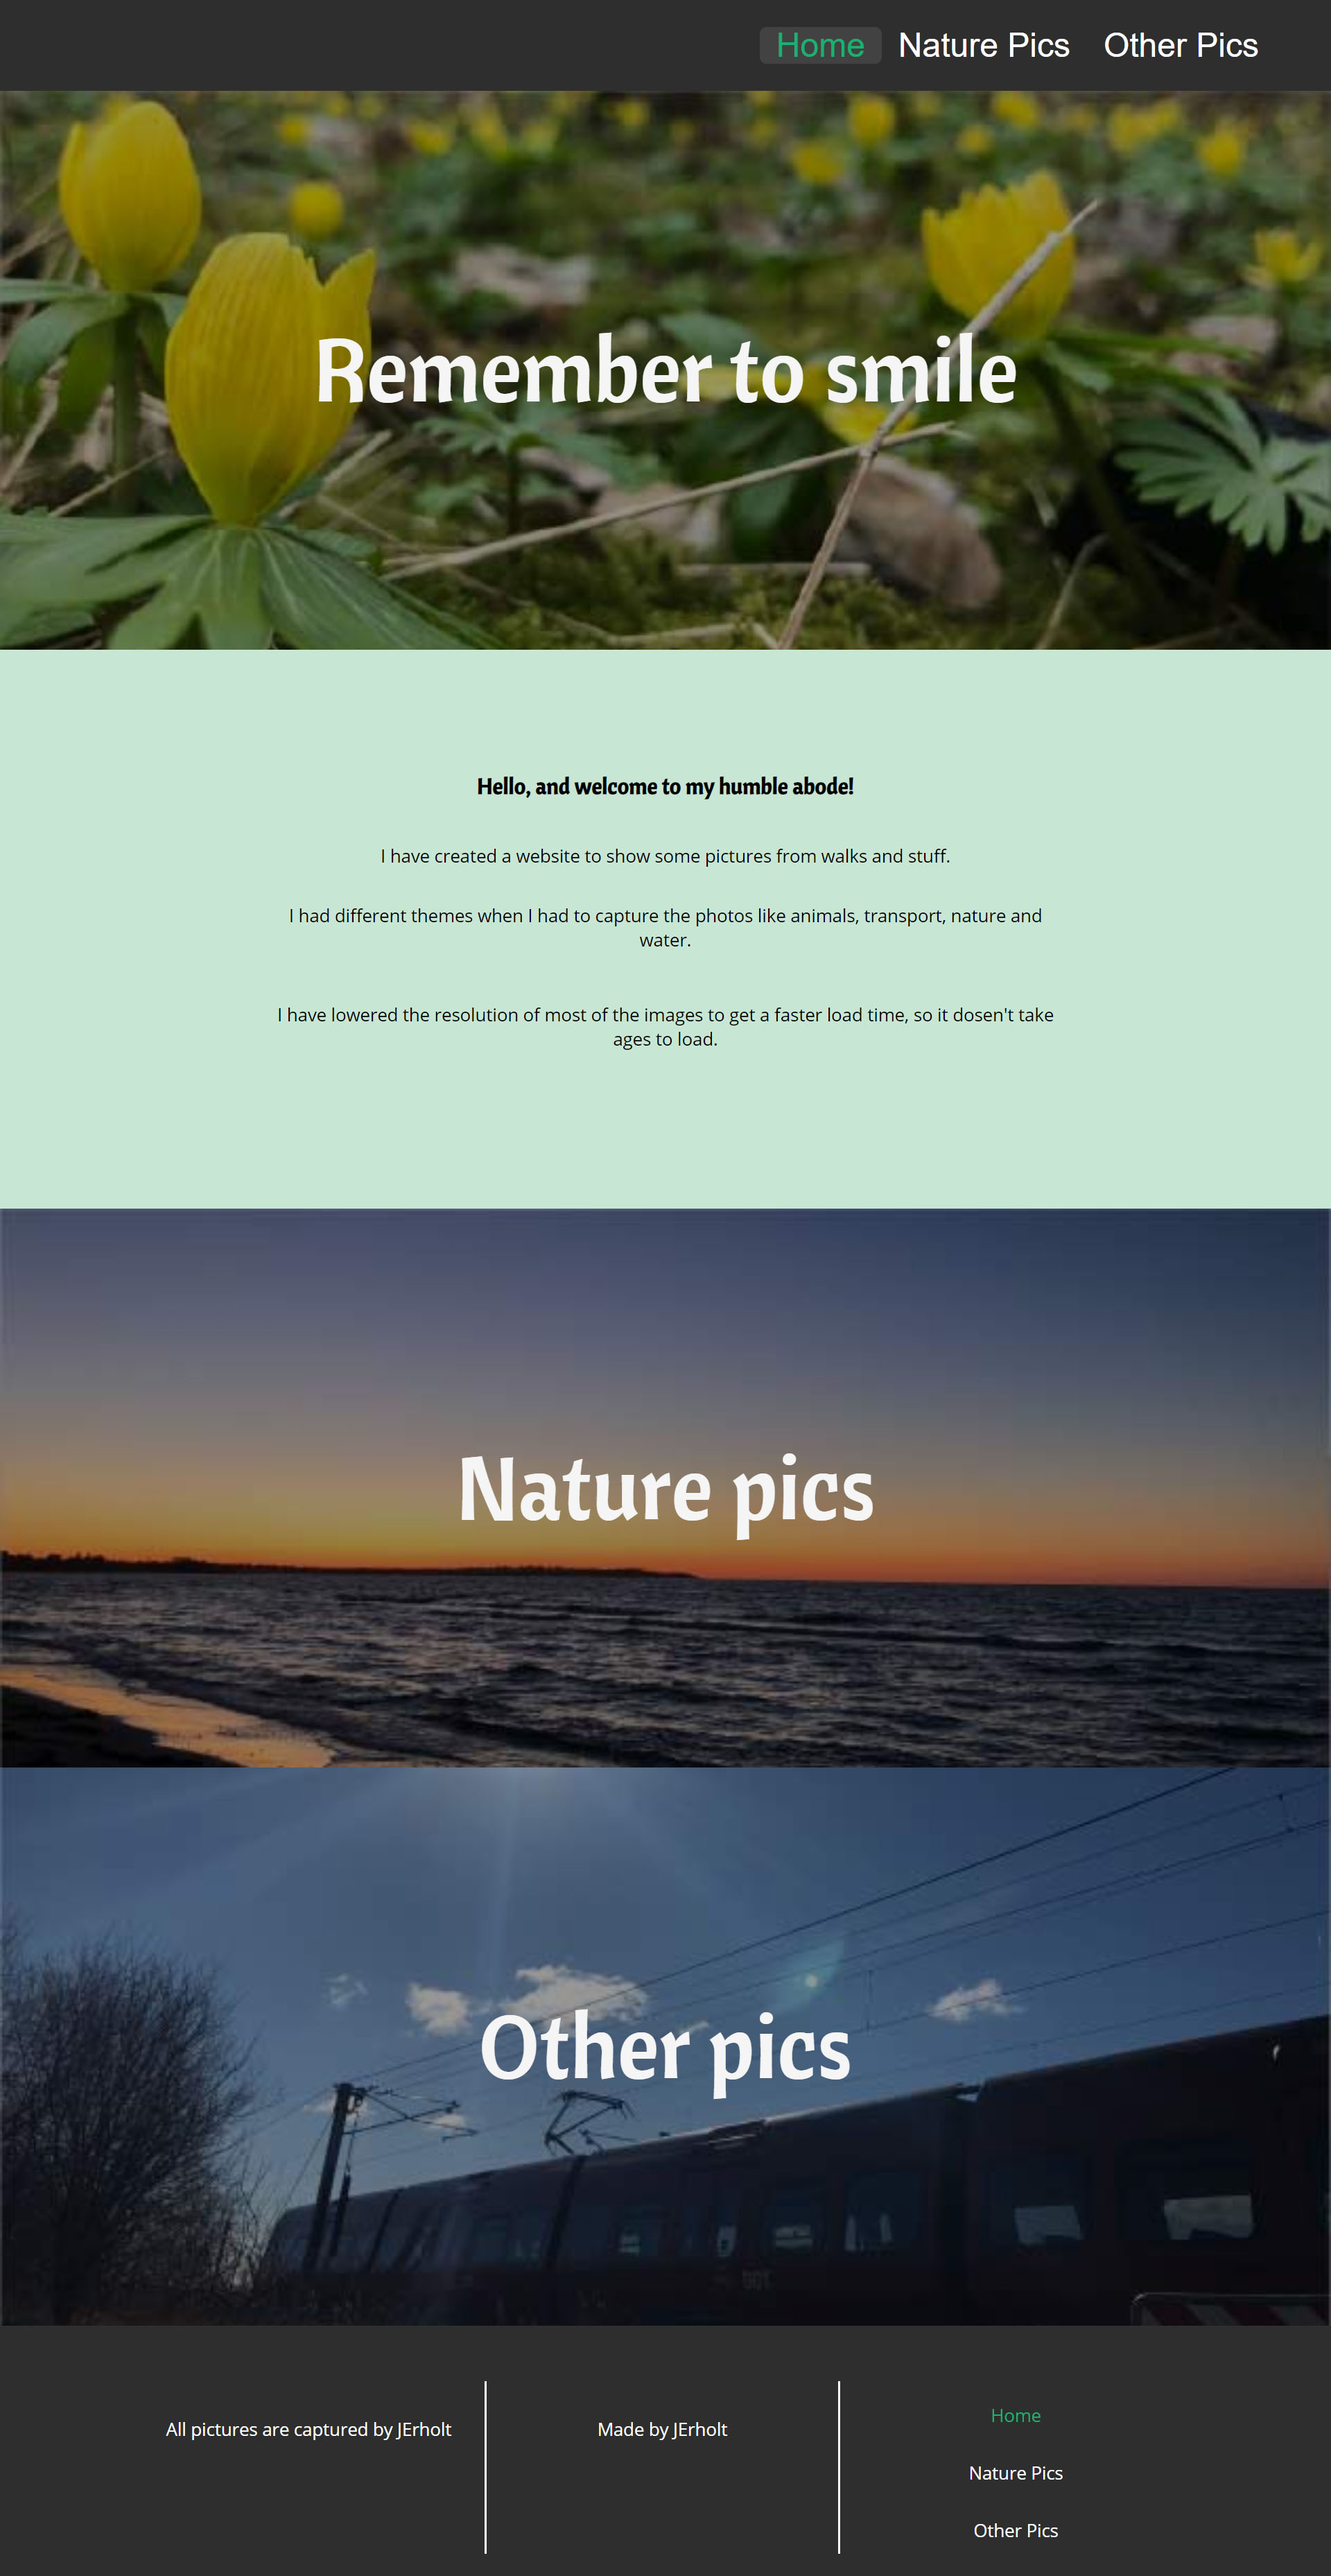
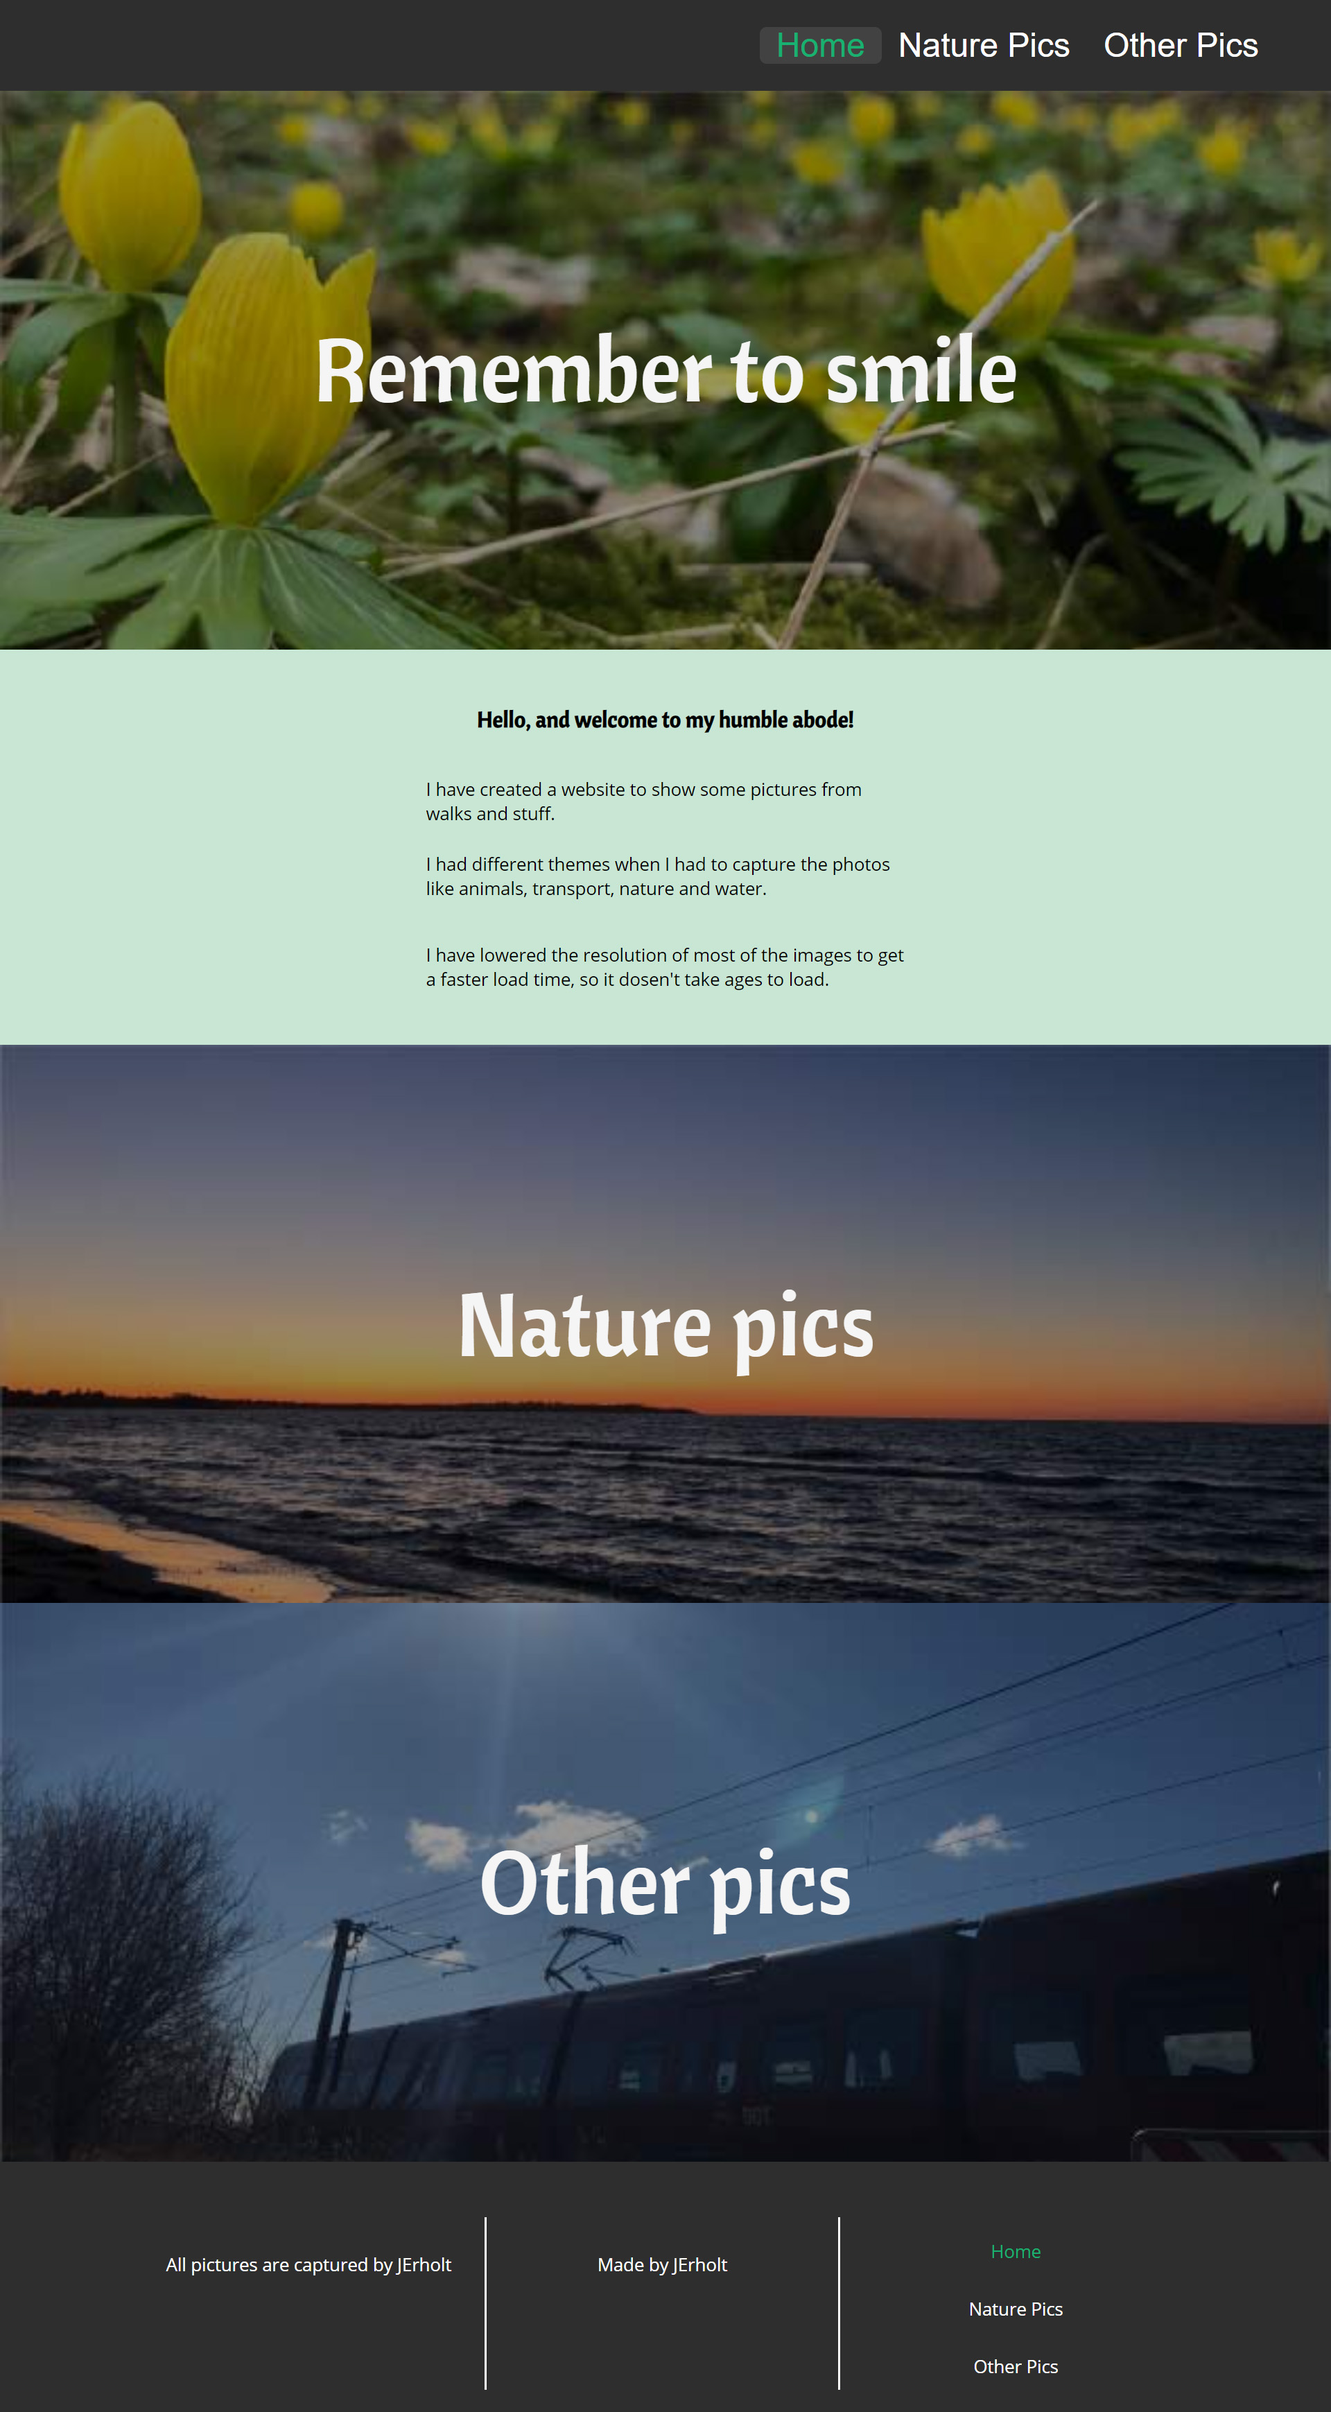
ghjhkfghkljfklgh

diff --git a/src/style.css b/src/style.css
@@ -43,6 +43,11 @@ dd {
   margin: 0;
 }
 
+li{
+  list-style: none;
+}
+
+
 /* Remove list styles on ul, ol elements with a list role, which suggests default styling will be removed */
 ul:where([role="list"]),
 ol:where([role="list"]) {
@@ -467,12 +472,32 @@ main section{
   transform: translate(-50%, -50%);
   color: var(--clr-neutral-100);
 }
-.projekter-snippet-title{font-size: 1.6em;}
+.projekter-snippet-title{font-size: 2.2em;}
 .projekter-snippet-text{font-size: 1.2em;}
 .projekter-snippet-image{
   display: block;
   height: auto;
   width: 100%;
+}
+.case-link{display: flex;}
+#case-text-wrapper p{
+  margin: 0 auto;
+  text-align: left;
+  padding-top: 40px;
+  width: 100%;
+}
+#case-text-wrapper a{
+  padding: 0 1em;
+  transition: .4s;
+}
+#case-text-wrapper a:hover{
+  color: var(--clr-primary-500);
+}
+/* Large device */
+@media only screen and (min-width: 1200px){
+  #case-text-wrapper p{
+    width: 80%;
+  }
 }
 /* ////////////
   Archive

diff --git a/src/projekter/2021-04-20-scenery.md b/src/projekter/2021-04-20-scenery.md
@@ -3,17 +3,18 @@ title: Scenery
 author: Jacob Erholt
 tags: ['projekter', 'featured']
 image: /assets/projekter/scenery.png
-imageAlt: This is a test
-description: Jeg har lavet en hjemmeside, hvor jeg viser en masser billeder jeg har taget på gåture, der er brugt HTML, CSS og JS.
+imageAlt: Snippet
+description: 
 linkToGithub: https://github.com/JHErholt/scenery
 linkToSite: https://jerholt-imagery-scenery.netlify.app/
 
-introduction: Lorem ipsum dolor sit amet consectetur adipisicing elit. Provident aliquam nisi ducimus aut, necessitatibus quidem? Odit mollitia aperiam aspernatur! Ratione officiis beatae sed voluptates facilis id cum optio, repellat veritatis!
-
-problem: Lorem ipsum dolor sit amet consectetur adipisicing elit. Provident aliquam nisi ducimus aut, necessitatibus quidem? Odit mollitia aperiam aspernatur! Ratione officiis beatae sed voluptates facilis id cum optio, repellat veritatis!
-
-solution: Lorem ipsum dolor sit amet consectetur adipisicing elit. Provident aliquam nisi ducimus aut, necessitatibus quidem? Odit mollitia aperiam aspernatur! Ratione officiis beatae sed voluptates facilis id cum optio, repellat veritatis!
-
 siteImage: /assets/projekter/scenery-site.jpg
-siteImageAlt: Dette er tekst
+siteImageAlt: Billede af siden
 ---
+<p>Da jeg var på hovedforløb 1, havde jeg en opgave der gik ud på at tage et billede hver dag. Derefter besluttede jeg mig for at lave en hjemmeside, som viser de forskellige billeder.</p>
+
+<p>Min idé med hjemmesiden var at lave én HTML, som indeholder en forside og 2 undersider. Desuden ville jeg også fokusere på at have en masse billeder med en lav load time, uanset hvilket device du er på.</p>
+
+<p>Jeg har lavet en HTML fil, hvor at hver page på siden er lavet som en section. Som standard har de 2 undersider en class der hedder ”hidden” som skjuler dem. Men med JS har jeg givet mine links evnen til at rykke rundt på deres classes, ud fra hvilken side der bliver benyttet. På den måde bliver billederne på undersiderne loaded imens at du befinder dig på forsiden.</p>
+
+<p>Jeg har komprimeret billedernes størrelse i Photoshop, så de tager kortere tid om at loade og stadig ser godt ud.   </p>

diff --git a/src/projekter/2020-12-06-christmas-countdown.md b/src/projekter/2020-12-06-christmas-countdown.md
@@ -3,6 +3,18 @@ title: Christmas countdown
 author: Jacob Erholt
 tags: ['projekter', 'featured']
 image: /assets/projekter/christmas-countdown.png
-imageAlt: This is a test
-description: Jeg har lavet en hjemmeside, hvor jeg viser en masser billeder jeg har taget på gåture, der er brugt HTML, CSS og JS.
+imageAlt: Snippet
+description:
+linkToGithub: https://github.com/JHErholt/scenery
+linkToSite: https://christmas-erholt.netlify.app/
+
+siteImage: /assets/projekter/christmas-site.jpg
+siteImageAlt: Billede af siden
 ---
+<p>I julen 2020 lavede jeg en countdown, hvor at man kan se hvor lang tid der er tilbage indtil den 24. december.</P>
+
+<p>Jeg havde lige lavet en hjemmeside med en countdown, så derfor tænkte jeg at det ville være spændende at lave en countdown til den 24. december. Da det var en juleside tænkte jeg, at der skulle være julestemning. </P>
+
+
+<p>Julestemningen skabte jeg ved at tilføje en julehilsen og en animeret baggrund af sne der falder. Den animerede baggrund er lavet med CSS.</P>
+<p>Min countdown er blevet lavet i JS, hvor at jeg til at starte med fandt ud hvad dag det er. Derefter fandt jeg ud af hvilken dato jeg ville vente på, i dette tilfælde den 24. december. Efter dét skal man have forskellen mellem de to datoer i dage, timer, minutter og sekunder, som vises på siden. </P>

diff --git a/src/projekter/2020-06-08-b0bles.md b/src/projekter/2020-06-08-b0bles.md
@@ -3,6 +3,16 @@ title: B0BLES
 author: Jacob Erholt
 tags: ['projekter', 'featured']
 image: /assets/projekter/b0bles.png
-imageAlt: This is a test
-description: Jeg har lavet en hjemmeside, hvor jeg viser en masser billeder jeg har taget på gåture, der er brugt HTML, CSS og JS.
+imageAlt: Snippet
+description:
+linkToGithub: https://github.com/JHErholt/scenery
+linkToSite: https://b0bles-jerholt.netlify.app/
+
+siteImage: /assets/projekter/b0bles-site.jpg
+siteImageAlt: Billede af siden
 ---
+<p>Til min eksammen på grundforløb 2 fik vi til opgave at lave en hjemmeside ud fra en skabelon, med fokus på børn. Man skulle også designe 2 møbler i 3D, med 2 forskellige farve temaer.</p>
+
+<p>Min opgave handlede om at jeg skulle få en side til at se godt ud, ved brug af billeder, videoer og grid elementer, samt at få hjemmesiden til at ligne skabelonen så godt som muligt.</p>
+
+<p>Jeg brugte Blender til at kreere mine møbler, og lavede en hurtig animation af dem. Derefter satte jeg dem ind på min hjemmeside, som jeg havde lavede med HTML og CSS.</p>

diff --git a/src/projekter/2021-03-25-erholt-search.md b/src/projekter/2021-03-25-erholt-search.md
@@ -3,6 +3,16 @@ title: Erholt Search
 author: Jacob Erholt
 tags: ['projekter', 'featured']
 image: /assets/projekter/erholt-search.png
-imageAlt: This is a test
-description: Jeg har lavet en hjemmeside, hvor jeg viser en masser billeder jeg har taget på gåture, der er brugt HTML, CSS og JS.
+imageAlt: Snippet
+description: 
+linkToGithub: https://github.com/JHErholt/scenery
+linkToSite: https://erholt-search.netlify.app/
+
+siteImage: /assets/projekter/erholt-search-site.jpg
+siteImageAlt: Billede af siden
 ---
+<p>På hovedforløb 1 fik jeg en opgave, hvor at jeg skulle lave en hjemmeside med en API. </p>
+
+<p>Jeg blev sat til at lave en google look-alike, med hjælp fra CSS og Wikipedia’s API.</p>
+
+<p>Jeg havde ikke prøvet at lave en side med API’er før, så det var et spændende projekt for mig at lave. Jeg brugte JS til at importere API’en ind til min side, og styrede hvilken information jeg skulle skrive på siden, og hvordan informationen var sat op.</p>

diff --git a/src/projekter/2020-04-22-projekt-lego.md b/src/projekter/2020-04-22-projekt-lego.md
@@ -3,8 +3,16 @@ title: Projekt Lego
 author: Jacob Erholt
 tags: ['projekter', 'featured']
 image: /assets/projekter/projekt-lego.png
-imageAlt: This is a test
-description: Jeg har lavet en hjemmeside, hvor jeg viser en masser billeder jeg har taget på gåture, der er brugt HTML, CSS og JS.
----
+imageAlt: Snippet
+description:
+linkToGithub: https://github.com/JHErholt/scenery
+linkToSite: https://christmas-erholt.netlify.app/
 
-Amalieo er mega cutesadasd se
+siteImage: /assets/projekter/christmas-site.jpg
+siteImageAlt: Billede af siden
+---
+<p></p>
+
+<p></p>
+
+<p></p>

diff --git a/src/projekter/2020-01-05-bylivslab.md b/src/projekter/2020-01-05-bylivslab.md
@@ -3,8 +3,16 @@ title: BYLIVSLAB
 author: Jacob Erholt
 tags: ['projekter', 'archive']
 image: /assets/projekter/bylivslab.png
-imageAlt: This is a test
-description: Jeg har lavet en hjemmeside, hvor jeg viser en masser billeder jeg har taget på gåture, der er brugt HTML, CSS og JS.
----
+imageAlt: Snippet
+description:
+linkToGithub: https://github.com/JHErholt/scenery
+linkToSite: https://christmas-erholt.netlify.app/
 
-Amalieo er mega cute
+siteImage: /assets/projekter/christmas-site.jpg
+siteImageAlt: Billede af siden
+---
+<p></p>
+
+<p></p>
+
+<p></p>

diff --git a/src/projekter/2020-02-15-projekt-dyr.md b/src/projekter/2020-02-15-projekt-dyr.md
@@ -3,8 +3,16 @@ title: Projekt Dyr
 author: Jacob Erholt
 tags: ['projekter', 'featured']
 image: /assets/projekter/projekt-dyr.png
-imageAlt: This is a test
-description: Jeg har lavet en hjemmeside, hvor jeg viser en masser billeder jeg har taget på gåture, der er brugt HTML, CSS og JS.
----
+imageAlt: Snippet
+description: 
+linkToGithub: https://github.com/JHErholt/scenery
+linkToSite: https://christmas-erholt.netlify.app/
 
-Amali
+siteImage: /assets/projekter/christmas-site.jpg
+siteImageAlt: Billede af siden
+---
+<p></p>
+
+<p></p>
+
+<p></p>

diff --git a/src/projekter/2019-12-19-cafe-emil.md b/src/projekter/2019-12-19-cafe-emil.md
@@ -3,10 +3,16 @@ title: Cafe Emil
 author: Jacob Erholt
 tags: ['projekter', 'archive']
 image: /assets/projekter/cafe-emil.png
-imageAlt: This is a test
-description: Jeg har lavet en hjemmeside, hvor jeg viser en masser billeder jeg har taget på gåture, der er brugt HTML, CSS og JS.
+imageAlt: Snippet
+description: 
+linkToGithub: https://github.com/JHErholt/scenery
+linkToSite: https://christmas-erholt.netlify.app/
+
+siteImage: /assets/projekter/christmas-site.jpg
+siteImageAlt: Billede af siden
 ---
+<p></p>
 
-<div>
+<p></p>
 
-</div>
+<p></p>

diff --git a/src/projekter/2020-04-15-greengarden.md b/src/projekter/2020-04-15-greengarden.md
@@ -3,7 +3,16 @@ title: Greengarden
 author: Jacob Erholt
 tags: ['projekter', 'featured']
 image: /assets/projekter/greengarden.png
-imageAlt: This is a test
-description: Jeg har lavet en hjemmeside, hvor jeg viser en masser billeder jeg har taget på gåture, der er brugt HTML, CSS og JS.
----
+imageAlt: Snippet
+description:
+linkToGithub: https://github.com/JHErholt/scenery
+linkToSite: https://christmas-erholt.netlify.app/
 
+siteImage: /assets/projekter/christmas-site.jpg
+siteImageAlt: Billede af siden
+---
+<p></p>
+
+<p></p>
+
+<p></p>

diff --git a/src/projekter/2020-05-24-triangle-rulers.md b/src/projekter/2020-05-24-triangle-rulers.md
@@ -3,6 +3,16 @@ title: Triangle Rulers
 author: Jacob Erholt
 tags: ['projekter', 'featured']
 image: /assets/projekter/triangle-rulers.png
-imageAlt: This is a test
-description: Jeg har lavet en hjemmeside, hvor jeg viser en masser billeder jeg har taget på gåture, der er brugt HTML, CSS og JS.
+imageAlt: Snippet
+description:
+linkToGithub: https://github.com/JHErholt/scenery
+linkToSite: https://trio-kajace.netlify.app/
+
+siteImage: /assets/projekter/christmas-site.jpg
+siteImageAlt: Billede af siden
 ---
+<p></p>
+
+<p></p>
+
+<p></p>

diff --git a/src/projekter/2020-05-09-gamelab.md b/src/projekter/2020-05-09-gamelab.md
@@ -3,6 +3,16 @@ title: Gamelab
 author: Jacob Erholt
 tags: ['projekter', 'featured']
 image: /assets/projekter/gamelab.png
-imageAlt: This is a test
-description: Jeg har lavet en hjemmeside, hvor jeg viser en masser billeder jeg har taget på gåture, der er brugt HTML, CSS og JS.
+imageAlt: Snippet
+description: 
+linkToGithub: https://github.com/JHErholt/scenery
+linkToSite: https://christmas-erholt.netlify.app/
+
+siteImage: /assets/projekter/christmas-site.jpg
+siteImageAlt: Billede af siden
 ---
+<p></p>
+
+<p></p>
+
+<p></p>
